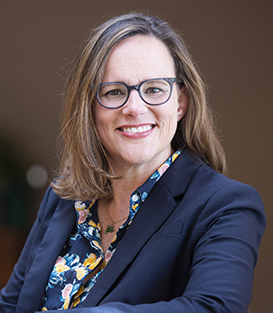
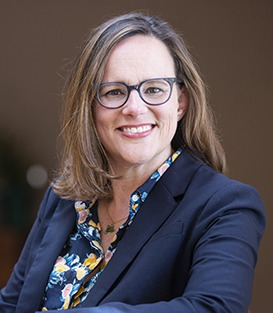
Headshots resize + status-bar reposition + on-demand "donor gift" sticker
Headshots (assets/headshots/*.jpg):
- Resize all 27 instructor JPEGs whose long edge was >360px down to
  360px max-edge with quality-92 progressive encoding. Brings the
  combined headshot bundle from ~7.4 MB down to ~0.8 MB and (more
  importantly) puts each source close to the rendered avatar size on
  retina displays so the browser doesn't have to do aggressive 5-9x
  downscales — that compounded with .book-scaler's CSS scale was
  producing the jagged "pixelated" look. Three small images (Elizabeth
  Arnold, Jennifer Ayres, Robert Franklin — all already <=320px) are
  re-saved unchanged for tidiness; aspect ratios are preserved
  throughout. Verified visually with Playwright at 1280x800 and
  1024x700.

index.html:
- Remove the image-rendering: -webkit-optimize-contrast hint from
  .faculty-avatar-large img and .support-avatar. Despite the name,
  -webkit-optimize-contrast is a sharpening setting that produces
  aliasing on photos at small sizes — its presence was almost
  certainly the source of the jagged-edge "pixelated" appearance
  Emily flagged. Default browser downscaling (auto) is now used.
- Reposition the status overlay so it stops covering the book on
  small viewports. Three coordinated changes: drop the "Arrow keys
  turn pages" hint span (saved width); shrink overlay padding from
  7x16 to 5x12 and font-size 0.7rem to 0.66rem; reduce the
  .book-frame max height by 56px (subtract from the dvh-based third
[…]

diff --git a/index.html b/index.html
@@ -103,7 +103,9 @@ select {
   position: relative;
   width: 100%;
   height: 100%;
-  padding: 8px;
+  /* Extra bottom padding so the reserved status-overlay channel below
+     the book has its own real estate. */
+  padding: 8px 8px 56px;
   display: grid;
   place-items: center;
   /* Single centered cell. The book-frame absorbs the full viewport at the
@@ -256,7 +258,7 @@ button.meta-chip {
   /* Width is the smallest of: parent width, hard cap 1700px, OR the width
      that keeps the book within the viewport height. The third term means
      the book never overflows vertically -- the bottom cannot be cut off. */
-  width: min(100%, 1700px, calc((100dvh - 16px) * 1500 / 780));
+  width: min(100%, 1700px, calc((100dvh - 16px - 56px) * 1500 / 780));
   aspect-ratio: 1500 / 780;
   perspective: 2800px;
 }
@@ -1172,38 +1174,72 @@ button.meta-chip {
   background: var(--ivory);
 }
 .featured-hero { position: relative; }
-.featured-hero-play {
+/* "Donor freebie" sticker on a hero image whose feature has
+   an onDemandUrl. Differentiates the live Zoom course (in this
+   lookbook) from the asynchronous on-demand version (the link
+   target). Designed to read as a sticker pasted to the corner of
+   the course image, not as a play button. */
+.featured-hero-gift {
   position: absolute;
-  bottom: 14px; right: 14px;
-  width: 56px; height: 56px;
+  bottom: -10px; right: 10px;
   z-index: 4;
   display: inline-flex;
-  align-items: center; justify-content: center;
-  border-radius: 50%;
-  background: rgba(255, 255, 255, 0.0);
+  align-items: center;
+  gap: 10px;
+  padding: 8px 14px 8px 12px;
+  background: #fbf6e3;
+  border: 1px solid rgba(200, 72, 38, 0.40);
+  border-radius: 10px;
   text-decoration: none;
+  transform: rotate(-3deg);
   box-shadow:
-    0 12px 28px rgba(200, 72, 38, 0.45),
-    0 4px 10px rgba(200, 72, 38, 0.30);
-  transition: transform 180ms ease, box-shadow 180ms ease;
-  /* Subtle pulse so the easter egg is discoverable without being loud. */
-  animation: featured-hero-play-pulse 2.6s ease-in-out infinite;
+    0 14px 28px rgba(20, 25, 33, 0.22),
+    0 4px 10px rgba(20, 25, 33, 0.10),
+    inset 0 0 0 3px rgba(255, 255, 255, 0.55);
+  transition: transform 200ms ease, box-shadow 200ms ease;
+  /* Slow lazy "tape" sway so the easter egg invites a click without
+     demanding it. */
+  animation: featured-hero-gift-sway 5.4s ease-in-out infinite;
+  transform-origin: 70% 30%;
 }
-.featured-hero-play:hover,
-.featured-hero-play:focus-visible {
-  transform: scale(1.08);
+.featured-hero-gift:hover,
+.featured-hero-gift:focus-visible {
+  transform: rotate(-1deg) translateY(-3px);
   box-shadow:
-    0 18px 36px rgba(200, 72, 38, 0.55),
-    0 6px 14px rgba(200, 72, 38, 0.36);
+    0 20px 38px rgba(20, 25, 33, 0.28),
+    0 6px 14px rgba(20, 25, 33, 0.14),
+    inset 0 0 0 3px rgba(255, 255, 255, 0.65);
   animation-play-state: paused;
 }
-.featured-hero-play svg {
-  width: 100%; height: 100%; display: block;
-  filter: drop-shadow(0 2px 4px rgba(120, 30, 10, 0.35));
+.featured-hero-gift .hero-gift-icon {
+  width: 28px; height: 28px;
+  color: var(--orange-red);
+  flex-shrink: 0;
 }
-@keyframes featured-hero-play-pulse {
-  0%, 100% { transform: scale(1); }
-  50%      { transform: scale(1.04); }
+.hero-gift-label {
+  display: flex;
+  flex-direction: column;
+  gap: 2px;
+  line-height: 1.0;
+}
+.hero-gift-eyebrow {
+  font-family: "DM Mono", monospace;
+  font-size: 9.5px;
+  letter-spacing: 0.20em;
+  text-transform: uppercase;
+  color: var(--orange-red);
+  font-weight: 500;
+}
+.hero-gift-detail {
+  font-family: "Inter", "DM Sans", sans-serif;
+  font-size: 12.5px;
+  font-weight: 600;
+  color: var(--navy);
+  white-space: nowrap;
+}
+@keyframes featured-hero-gift-sway {
+  0%, 100% { transform: rotate(-3deg); }
+  50%      { transform: rotate(-1.5deg); }
 }
 
 .featured-hero img {
@@ -1557,11 +1593,6 @@ button.meta-chip {
   object-fit: cover;
   object-position: top center;
   display: block;
-  /* Force the high-quality downscaler. Auto often picks the fast
-     path under heavy CSS-transform scaling; explicit hint keeps the
-     small headshot crisp. */
-  image-rendering: -webkit-optimize-contrast;
-  image-rendering: high-quality;
 }
 
 .faculty-avatar-large.faculty-card-mark img {
@@ -1748,17 +1779,12 @@ button.meta-chip {
   /* Crisp white inner border + thin warm outline = magazine-clipping feel. */
   border: 1px solid rgba(255, 255, 255, 0.96);
   outline: 1px solid rgba(30, 37, 48, 0.10);
-  image-rendering: -webkit-optimize-contrast;
-  image-rendering: high-quality;
+
   outline-offset: 0;
   box-shadow:
     0 6px 14px rgba(30, 37, 48, 0.18),
     0 1px 3px rgba(30, 37, 48, 0.10);
   background: rgba(255, 255, 255, 0.80);
-  /* Force the high-quality scaler when downsampling so JPEG artifacts
-     in the source don't show as color bands at small sizes. */
-  image-rendering: -webkit-optimize-contrast;
-  image-rendering: high-quality;
 }
 
 .support-avatar-mark {
@@ -2345,25 +2371,28 @@ a.meta-chip {
 
 .status-overlay {
   position: absolute;
-  bottom: 14px;
+  /* Sits in the reserved 56px channel below the book-frame so it
+     never overlaps page content, even on small viewports. */
+  bottom: 8px;
   left: 50%;
   transform: translateX(-50%);
   z-index: 12;
   display: flex;
   align-items: center;
-  gap: 10px;
-  padding: 7px 16px;
+  gap: 8px;
+  padding: 5px 12px;
   border-radius: 999px;
-  background: rgba(20, 25, 33, 0.42);
+  background: rgba(20, 25, 33, 0.50);
   border: 1px solid rgba(240, 234, 216, 0.10);
   backdrop-filter: blur(14px);
   -webkit-backdrop-filter: blur(14px);
   color: rgba(240, 234, 216, 0.84);
   pointer-events: auto;
   font-family: "DM Mono", monospace;
-  font-size: 0.7rem;
-  letter-spacing: 0.16em;
+  font-size: 0.66rem;
+  letter-spacing: 0.14em;
   text-transform: uppercase;
+  white-space: nowrap;
 }
 
 .status-overlay .page-status {
@@ -2994,8 +3023,7 @@ body.preview-embed .app-shell {
       </button>
       <div class="sections-panel" id="sections-panel" role="menu" aria-hidden="true"></div>
     </div>
-    <span class="status-divider status-divider-quiet" aria-hidden="true">&middot;</span>
-    <div class="hint">Arrow keys turn pages</div>
+
   </div>
 </div>
 
@@ -3644,7 +3672,7 @@ function renderSpread(entry, index) {
       <div class="feature-canvas">
         <div class="feature-genre" style="--genre-font-size:${genreFontSize}px; --genre-font-family:${getEditorFontFamily(layout.genreFontFamily || "montserrat", "text")};">${entry.genre}</div>
         <span class="featured-eyebrow">★ ${feature.courseLabel || "Featured Course"}</span>
-        ${feature.image ? `<div class="featured-hero">${feature.onDemandUrl ? `<a class="featured-hero-play" href="${feature.onDemandUrl}" target="_blank" rel="noopener noreferrer" aria-label="Watch the on-demand version of ${feature.title || ""}" title="Watch on-demand"><svg viewBox="0 0 32 32" aria-hidden="true"><circle cx="16" cy="16" r="15" fill="#c84826"/><path d="M13 10 L23 16 L13 22 Z" fill="#fff"/></svg></a>` : ""}<img src="${feature.image}" alt="${feature.title || entry.label || entry.genre || ""}"></div>` : `<div class="featured-hero" aria-hidden="true"></div>`}
+        ${feature.image ? `<div class="featured-hero">${feature.onDemandUrl ? `<a class="featured-hero-gift" href="${feature.onDemandUrl}" target="_blank" rel="noopener noreferrer" aria-label="Visit the free on-demand version of ${feature.title || ""}" title="Free donor on-demand version"><svg class="hero-gift-icon" viewBox="0 0 24 24" aria-hidden="true" fill="none" stroke="currentColor" stroke-width="1.6" stroke-linecap="round" stroke-linejoin="round"><path d="M3 9 H21 V20 H3 Z"/><path d="M3 9 L3 13 L21 13 L21 9"/><path d="M12 9 V20"/><path d="M8.5 9 C7 9 6.2 7.5 7 6.2 C7.8 5 9.5 5 10.5 6.2 L12 9 L13.5 6.2 C14.5 5 16.2 5 17 6.2 C17.8 7.5 17 9 15.5 9"/></svg><span class="hero-gift-label"><span class="hero-gift-eyebrow">Free \u00b7 Donor Gift</span><span class="hero-gift-detail">On-demand version &rarr;</span></span></a>` : ""}<img src="${feature.image}" alt="${feature.title || entry.label || entry.genre || ""}"></div>` : `<div class="featured-hero" aria-hidden="true"></div>`}
         <div class="featured-bottom">
           <div class="featured-text-block">
             <h2 class="featured-title">${feature.title || ""}</h2>
